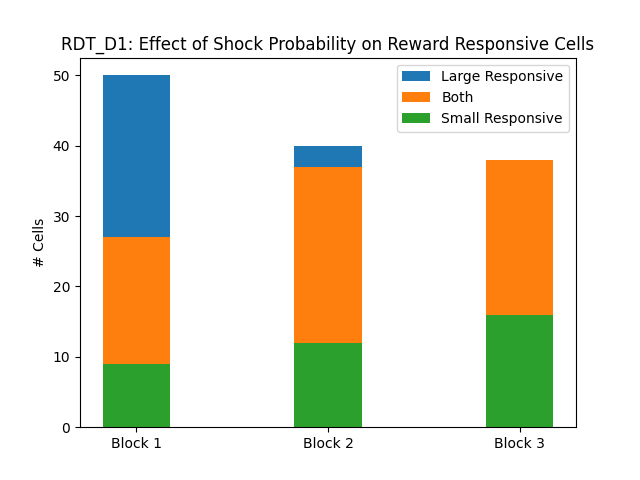
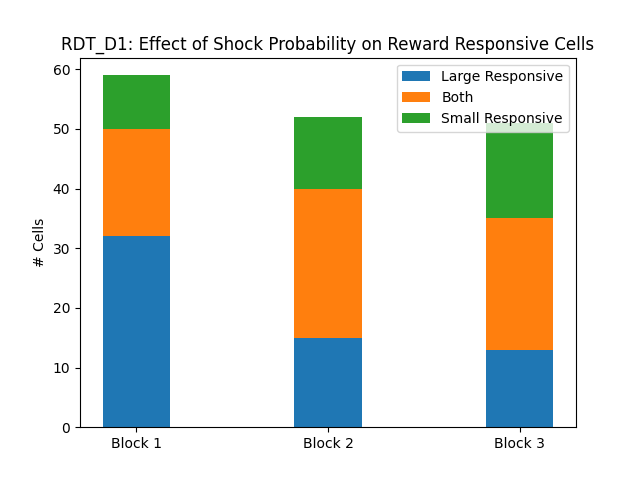
corrected stacked barplotviz

diff --git a/Database/VennDiagrams/QuestionResultsAnalysis.py b/Database/VennDiagrams/QuestionResultsAnalysis.py
@@ -12,9 +12,14 @@ def stacked_barplot(list_1, list_2, list_3, title, labels, dst):
 
     width = 0.35
     fig, ax = plt.subplots()
-    ax.bar(labels, list_1, width, bottom=list_2, label="Large Responsive")
-    ax.bar(labels, list_2, width, bottom=list_3, label="Both")
-    ax.bar(labels, list_3, width, label="Small Responsive")
+
+    zipped = zip(list_1, list_2)
+
+    sum = [x + y for (x, y) in zipped]
+
+    ax.bar(labels, list_1, width, label="Large Responsive")
+    ax.bar(labels, list_2, width, bottom=list_1, label="Both")
+    ax.bar(labels, list_3, width, bottom=sum, label="Small Responsive")
 
     ax.set_ylabel("# Cells")
     ax.set_title(title)
@@ -25,7 +30,7 @@ def stacked_barplot(list_1, list_2, list_3, title, labels, dst):
 
 def main():
     # all bars will have the same num cells (within the pool of cells that were resp to X)
-    csv_path = r"/home/rory/Rodrigo/Database/StackedBars/how_shock_respcells_changein_blocks_and_rewsize/take2_rdt2.csv"
+    csv_path = r"/home/rory/Rodrigo/Database/StackedBars/how_shock_respcells_changein_blocks_and_rewsize/take2_rdt2_shockNonresponsive.csv"
     session = "RDT_D2"
     dst = csv_path.replace(".csv", ".png")
 
@@ -42,10 +47,10 @@ def main():
     # d = {"resp_L": 0, "resp_S": 0, "resp_both": 0}
 
     for idx_col, col in enumerate(list(df.columns)):
-        resp_L = 0
-        resp_S = 0
-        resp_both = 0
         if "Large" in col:
+            resp_L = 0
+            resp_S = 0
+            resp_both = 0
             print(col)
             # idx can be cell, all the same cell across columns
             # only perform this if modulus of 2 is 0 (meaning perform this after
